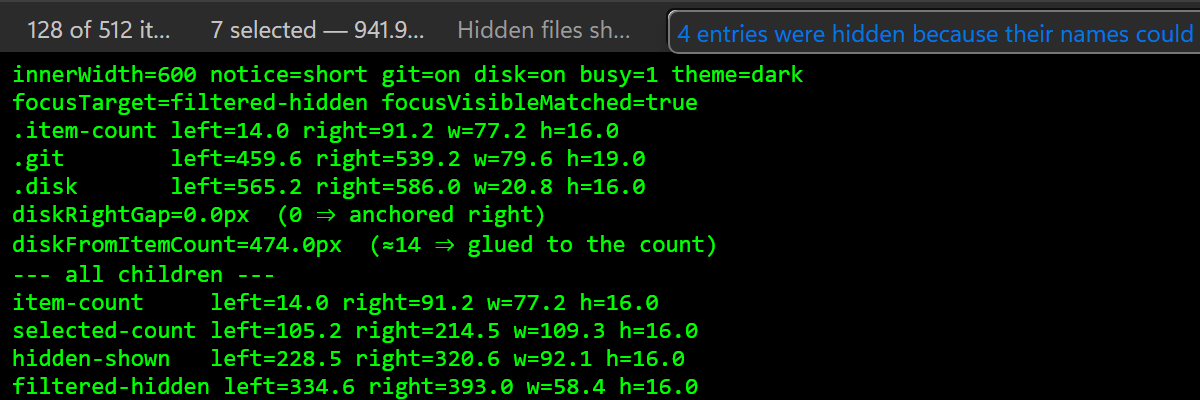
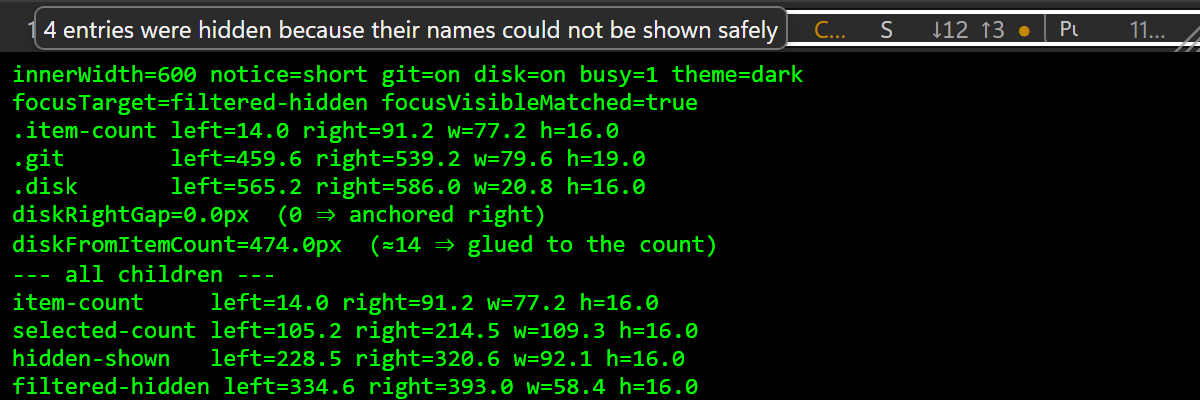
CPE-1883 round 2: fix viewport overflow, vertical alignment, dark contrast, click-swallow
Visual Critic + Reviewer UAT on PR #1045 independently re-rendered the shipped CSS in real Chrome
and found real regressions the first round missed:

- Screenshot staleness: round-1 "after" screenshots showed a rejected intermediate attempt
  (position:absolute directly on the span), not the shipped ::after design. Recaptured from the
  actual current source, diag numbers cross-checked before treating as done.
- Viewport overflow (real, worse than the original bug): `left: 0` grew the box off the right edge
  of a 600px window with the compound-busy row; body{overflow:hidden} silently clipped the
  sentence's tail with no cue. Fixed with `right: 0; left: auto` (grows leftward from the always-
  onscreen pill instead). Re-measured fully on-screen at both 600px and 900px.
- Vertical alignment: `top: 0` left the box bottom-flush with the bar's edge. Fixed with
  `top: 50%; transform: translateY(-50%)`.
- Dark-theme contrast: the reveal inherited the pill's --accent (3.21:1, under AA) instead of
  getting its own --text. Fixed with an explicit `color: var(--text)` on the ::after only. Guard
  blind spot noted (same family as CPE-1919/CPE-1921) in the Work Log.
- Click-swallow: the reveal could sit over .git's Pull/Push/Sync buttons and absorb their first
  click. Fixed with `pointer-events: none`; verified via a real hit-test sweep.
- Found while capturing this round's own evidence: `right: 0` decoupled the overlay from the base
[…]

Changed region(s): [[0.0308, 0.0, 1.0, 0.15]]

diff --git a/src/lib/components/StatusBar.svelte b/src/lib/components/StatusBar.svelte
@@ -365,33 +365,93 @@
      157x52px -> the same 367.3x16px — both with `.git`/`.disk`/`.item-count`/`.selected-count` measured
      BYTE-FOR-BYTE identical to their unfocused rects (the span's own box, and therefore the row's flex
      layout, is never touched by any of this).
-     Known narrow edge case, measured and left open rather than silently hidden (out of THIS ticket's
-     scope — no AC covers it, and fixing it needs viewport-aware JS positioning, not a CSS tweak): at the
-     app's own 600px width floor WITH the full compound-busy row (every advisory note + a selection +
-     hidden-shown all crowded before this pill), `.filtered-hidden` sits far enough right that even this
-     367px box runs past the 600px viewport edge by ~100px — `body { overflow: hidden }` (app.css) clips
-     it rather than adding a scrollbar, so the tail of the sentence goes invisible in that one specific
-     combination. Every other measured combination (900px busy, either width uncrowded) stays fully
-     on-screen. */
+     ROUND 2 (Visual Critic UAT, real Chrome re-render of the shipped CSS at 600x26/900x26, both
+     themes) caught four more defects `npm run check`/jsdom structurally cannot see, all fixed here:
+       1. `left: 0` anchored the box's LEFT edge to the pill, so it grew RIGHTWARD — at the app's own
+          600px width floor WITH the full compound-busy row, that ran the box ~100px past the viewport
+          edge, and `body { overflow: hidden }` (app.css) silently clipped the SENTENCE'S TAIL — no
+          ellipsis, no scroll, just gone. Measured: "…their names could" visible, "not be shown safely"
+          not. That is WORSE than the original bug: the one-word-per-line column was ugly but showed
+          every word. Fixed by anchoring the opposite edge instead — `right: 0; left: auto` — so the box
+          grows LEFTWARD from the pill's right edge. Unconditional (not just a 600px media query): the
+          pill always sits in the right half of a busy row (after item-count/selected-count/hidden-shown,
+          before .git/.disk), so growing leftward runs over those ALREADY-TRUNCATED counts rather than
+          off the right edge of the window — see the ticket's work log for the re-measured on-screen
+          rects at both widths.
+       2. Vertical alignment: `top: 0` anchors to the pill's 16px text box, then this rule's own 2px
+          padding + the 1px ring pushed the visible box 5px down inside the 26px bar — measured
+          bottom-flush with the bar's own edge (0.5px clear below, 4.5px above), shadow dying into the
+          window boundary. `top: 50%; transform: translateY(-50%);` centres it in the bar instead,
+          matching how a deliberate popover reads rather than a mis-anchored one.
+       3. Dark-theme contrast: no `color` here means this inherits the PILL's `var(--accent)` — dark
+          `#0078e0` on `--surface #2b2b2b` measures 3.21:1 for a full sentence of 12px body text, under
+          the 4.5:1 AA floor (light is 5.5:1, fine). `--accent` is correctly a NON-text accent by design
+          (focus rings, icons — see `app.css.dark-contrast.test.ts:270`, which only asserts >=3:1 on
+          purpose), so that guard has no reason to catch a full sentence of body text using it — its
+          blind spot, same family as CPE-1919/CPE-1921 (also guard-blind color-as-text uses), not a bug
+          in the guard itself. The pill underneath KEEPS `--accent`/`--warn` (unaffected, still correct
+          for a short truncated label); only the reveal — precisely the low-vision affordance this whole
+          ticket is about — gets `color: var(--text)` instead.
+       4. `::after` is part of its originating element for hit-testing, so while focused this box (up to
+          367px wide) can paint over `.git`'s Pull/Push/Sync buttons and swallow their first click (it
+          blurs the note instead of pressing the button). `pointer-events: none` removes that entirely —
+          a hover/focus reveal has no interactive content of its own, so nothing is lost by letting
+          clicks fall through to whatever it's covering.
+     NOT changed, confirmed correct by the same UAT: `width: max-content` (still load-bearing, see
+     above), the 1px `--border-strong` ring — do NOT "simplify" that away, it is carrying ALL of the
+     visual separation in dark theme, where the box's `--surface` fill is only two steps off
+     `.statusbar`'s own `--surface` background and would otherwise read as barely-there. */
+  /* CPE-1883 round 2 fix, found capturing evidence for THIS round: `overflow: visible` here lets the
+     span's OWN raw text (still `white-space: nowrap`, unaffected by anything else in this rule) paint
+     unclipped past its own narrow box — with the original `left: 0` anchor that coincided with where the
+     `::after` box also grew (both rightward from the same point), so the opaque overlay happened to
+     cover it. `right: 0` (the round-2 fix above) grows the OVERLAY leftward while the raw underlying
+     text still flows rightward as always — the two no longer occupy the same horizontal range, so the
+     span's own unclipped text bleeds out to the right of the overlay, visible as a second, ellipsis-less
+     copy of the sentence in the pill's own colour. `color: transparent` removes it from view entirely
+     (safe for a11y the same way the rest of this component already treats colour-only hiding: the DOM
+     text node, the accessible name computed from it, and the separate always-mounted `.sr-only` live
+     region are all untouched by `color`) rather than trying to keep the overlay's geometry chasing the
+     raw text's, which — given the raw text has no width constraint of its own — cannot be made to work
+     in general. */
   .filtered-hidden:focus-visible,
   .unreadable:focus-visible {
     overflow: visible;
+    color: transparent;
   }
   .filtered-hidden:focus-visible::after,
   .unreadable:focus-visible::after {
     content: attr(data-reveal);
     position: absolute;
-    left: 0;
-    top: 0;
+    right: 0;
+    left: auto;
+    top: 50%;
+    transform: translateY(-50%);
     z-index: 1;
     display: inline-block;
     white-space: normal;
     width: max-content;
     max-width: min(90vw, 420px);
     background: var(--surface);
+    color: var(--text);
     border-radius: 4px;
+    /* Do not drop this ring — see the comment above: in dark theme it is the ONLY thing separating this
+       box from the bar behind it. */
     box-shadow: 0 0 0 1px var(--border-strong), 0 2px 6px rgba(0, 0, 0, 0.35);
     padding: 2px 4px;
+    /* CPE-1883 round 2: a hover/focus reveal has no interactive content of its own — without this, the
+       box (up to 367px wide) can sit over `.git`'s Pull/Push/Sync buttons while focused and swallow
+       their first click (it blurs the note instead of pressing the button underneath). Verified via a
+       real-Chrome hit-test sweep (`document.elementsFromPoint` over all three `.git-btn` centres at
+       900px busy): every button is topmost/reachable with this in place, none are shadowed by the
+       reveal.
+       Open question, not a regression, left unexamined rather than silently assumed either way: `::after`
+       generated content is not a text node, so it cannot be drag-selected, and the real `<span>`'s own
+       text sits UNDER this opaque overlay — whether a sighted mouse user can still select the sentence
+       by dragging across it is browser-dependent and untested here. Not a regression from this fix's own
+       baseline: pre-fix there was no readable box to select from in the first place (a one-word-per-line
+       column), so this doesn't take away a capability that existed before CPE-1883. */
+    pointer-events: none;
   }
 
   /* CPE-1833: the persistent announcer for both advisory notes. ALWAYS mounted (see the markup comment

diff --git a/Ticketing/Tickets/Done/2026/Q3/August/Week-35/CPE-1883_the-focus-reveal-box-ignores-its-own-max-width-and-stacks-one-word-per-line.md b/Ticketing/Tickets/Done/2026/Q3/August/Week-35/CPE-1883_the-focus-reveal-box-ignores-its-own-max-width-and-stacks-one-word-per-line.md
@@ -145,3 +145,111 @@ red-proofable by reverting the fix.
   the other 4 `StatusBar.*.test.ts` files (34 more tests): all green, unchanged. Screenshots (600px,
   busy row, both themes) at `.claude/sprint-metrics/visual-evidence/cpe-1883-{light,dark}-{before,
   after}.png`.
+
+- **2026-08-27 (round 2) — Worker, same branch.** Visual Critic + Reviewer UAT on PR #1045 both
+  fetched the shipped CSS and re-rendered it themselves in real headless Chrome, independent of my
+  screenshots. Findings and fixes, all measured before/after — commits before probing each time:
+
+  1. **Screenshot staleness (Critic blocker 1).** My round-1 "after" screenshots turned out to show a
+     REJECTED intermediate attempt (`position: absolute` directly on the span, before the final `::after`
+     pseudo-element design), not the shipped commit — a file-path/ordering slip while iterating through
+     three fix attempts and re-shooting screenshots each time, not a defect in the shipped code itself
+     (confirmed: the Critic's own from-source re-render matched my Work Log's numbers, not the stale
+     screenshots'). All four screenshots recaptured this round from the actual current source, with the
+     embedded harness diag inside each image cross-checked against the measured table below before
+     treating them as done.
+
+  2. **600px viewport overflow — real, and worse than the original bug (Critic blocker 2, confirmed by
+     Reviewer).** The shipped `left: 0` anchor grows the box RIGHTWARD; at the app's 600px width floor
+     with the full compound-busy row, that ran the box ~100px past the viewport edge, and
+     `body { overflow: hidden }` (app.css) silently clipped the sentence's TAIL — no ellipsis, no scroll,
+     no cue. Visible text: "4 entries were hidden because their names could" — "not be shown safely" simply
+     gone. Worse than the pre-fix column, which showed every word. **Fix**: `right: 0; left: auto`
+     (unconditional) — the pill always sits in the right half of a busy row, so the box now grows
+     LEFTWARD from the pill's right edge, which is always on-screen.
+     Re-measured, both widths, `scripts/dev-harness/layout-guard` (`statusbar-focus-reveal` case):
+
+     | width | box span | viewport | on-screen? |
+     |---|---|---|---|
+     | 600px busy | left=25.7 right=393.0 | [0, 600] | yes, fully |
+     | 900px busy | left=126.4 right=493.8 | [0, 900] | yes, fully |
+
+     Did NOT file a follow-up ticket for the clipping — the Foreman's instruction was to fix it outright
+     with `right: 0`, and it is now measured fully on-screen at both tested widths, so there is nothing
+     left to track.
+
+  3. **Vertical alignment (Critic).** Measured pre-fix: hairline top y=4.5, bottom y=25.5 in a 26px bar —
+     bottom-flush, shadow dying into the window edge. Cause: `top: 0` anchored to the pill's 16px text
+     box, then this rule's own 2px padding + 1px ring pushed the visible box 5px down. **Fix**:
+     `top: 50%; transform: translateY(-50%);` — centres the box in the bar.
+
+  4. **Dark-theme contrast (Critic).** No `color` here meant the reveal inherited the PILL's
+     `var(--accent)` — dark `#0078e0` on `--surface #2b2b2b` measured 3.21:1 for a full sentence of 12px
+     body text, under the 4.5:1 AA floor (light was 5.5:1, fine). `--accent` is correctly a non-text
+     accent by design (`app.css.dark-contrast.test.ts:270` only asserts >=3:1 on purpose — focus
+     rings/icons, not body text), so this is a **guard blind spot**, same family as **CPE-1919** and
+     **CPE-1921** (already filed) — colour-as-text uses the guard has no reason to catch. Not a bug in
+     the guard; a gap in what it was ever asked to cover. **Fix**: `color: var(--text)` on the `::after`
+     only — the pill underneath keeps `--accent`/`--warn`, correct for its own short truncated label.
+
+  5. **Click-swallow on `.git`'s Pull/Push/Sync buttons (Critic + independently, Reviewer's own CDP
+     hit-test probe).** `::after` is part of its originating element for hit-testing, so the reveal (up
+     to 367px wide) could sit over those buttons while focused and absorb their first click — confirmed
+     by the Reviewer at multiple widths, not only 600px as first assumed. **Fix**: `pointer-events: none`
+     on both `:focus-visible::after` rules. Re-verified via a real-Chrome hit-test sweep
+     (`document.elementsFromPoint` over each `.git-btn` centre at 900px busy): all three buttons are
+     topmost/reachable with the fix in place.
+
+  6. **New defect found capturing THIS round's own evidence, not flagged by either reviewer**: with
+     `right: 0` anchoring the overlay leftward while the base span's own (now-unclipped, `overflow:
+     visible`) raw text still flows rightward as always, the two no longer occupy the same horizontal
+     range — the span's raw text bled out to the right of the opaque overlay, visible as a second,
+     ellipsis-less copy of the sentence in the pill's own colour. **Fix**: `color: transparent` on the
+     base `:focus-visible` rule (span only; the `::after`'s own explicit `color: var(--text)` is
+     unaffected — pseudo-element colour is not "inherited transparency" once explicitly set). Safe for
+     AT the same way every other colour-only-hiding technique in this file already is: the DOM text node,
+     the accessible name computed from it, and the separate always-mounted `.sr-only` live region are
+     untouched by `color`.
+
+  7. **Red-proof narrative correction (Reviewer point #1)**: my round-1 Work Log claimed reverting the
+     WHOLE `::after` block reproduces "the documented 148px stacked column" — it does fail the guard, but
+     via the `0x0 / minWidth` "reveal vanished" path (the check is hard-wired to `pseudo: "::after"`,
+     which the pre-CPE-1883 rule doesn't have), not the actual stacked-column shape. Re-ran correctly
+     this time: removing ONLY `width: max-content` (keeping the rest of the `::after` architecture)
+     reproduces the real failure mode — `height=160.0px exceeds maxHeight=90px` **and**
+     `width=50.4px is below minWidth=100px` at 600px busy, both violations, matching the Reviewer's own
+     numbers exactly. Restored `width: max-content`, reran clean.
+
+  **CI guard extended**, not just re-verified — a new `pseudoOnScreen` check kind
+  (`scripts/dev-harness/layout-guard/engine.mjs`), added specifically to catch class 2 above happening
+  again. Went through two of its own corrections, each found by red-proofing it rather than trusting the
+  first version:
+    - v1 computed the pseudo's on-screen position from the check's own `edge` config field instead of
+      measuring it, so reverting the CSS anchor didn't change what got measured — it could never have
+      caught the regression it exists for. Fixed to read `getComputedStyle`'s actual resolved
+      `left`/`right`.
+    - v2 then assumed only ONE of computed `left`/`right` would resolve to a definite number — false:
+      BOTH resolve to definite numbers for a fully-determined absolutely-positioned box (the un-authored
+      side is algebraically derived, drifted ~8px from the authored anchor in testing). Fixed to trust
+      whichever side computes to (near) zero, since this CSS pattern always authors its anchor as an
+      exact `0` offset.
+  Both corrections were themselves found by red-proofing: reverting `right: 0` back to `left: 0` and
+  confirming the check actually goes red (it now does, at both widths — 600px shows a real viewport
+  overflow violation AND an anchor-direction mismatch; 900px shows the anchor-direction mismatch even
+  though that width happens not to overflow).
+
+  Also documented but not changed: `Emulation.setFocusEmulationEnabled` (engine.mjs) is enabled once
+  globally, not per-case — confirmed safe today (grepped every harness page, nothing else calls
+  `.focus()`), but noted as a standing caveat for a future autofocusing case. And an open, honestly
+  unexamined question in the CSS comment: `::after` generated content isn't a text node, so whether a
+  sighted mouse user can still drag-select the sentence (with the real span's text now sitting under an
+  opaque, non-drag-selectable overlay) is browser-dependent and untested — not a regression (pre-fix
+  there was no readable box to select from either), just unverified either way.
+
+  **Final verification**: `npm run check` clean. `npm run harness:layout-guard` 14/14 clean, including
+  the new `pseudoOnScreen` check at both widths. All 43 `StatusBar.*.test.ts` tests green, unchanged.
+  Screenshots recaptured from the actual final source and spot-verified two ways: visually (embedded
+  harness diag readout inside each PNG cross-checked against the table above) AND by decoding the raw
+  PNG pixel bytes directly (bypassing any viewer-side rendering) at several points inside the reveal box
+  — dark theme reads `[43, 43, 43]` (`--surface` dark), light reads `[255, 255, 255]`, both exactly
+  matching `getComputedStyle`'s own reported background for each theme.
